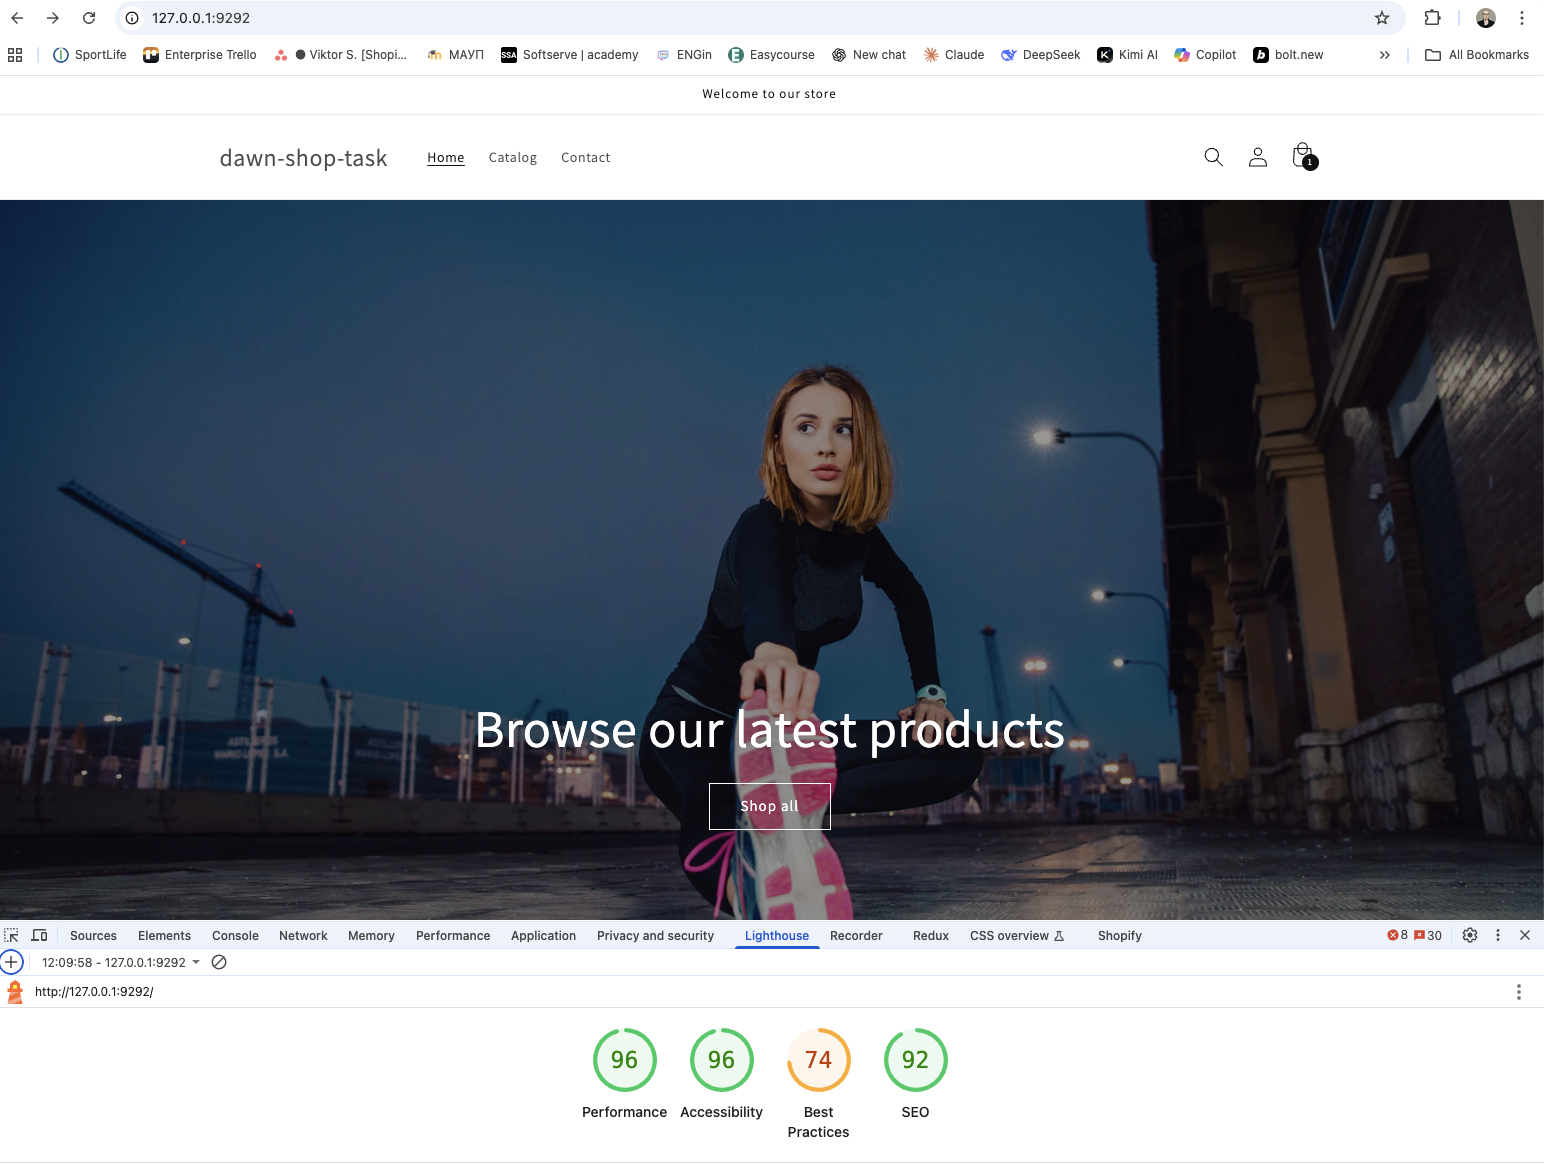
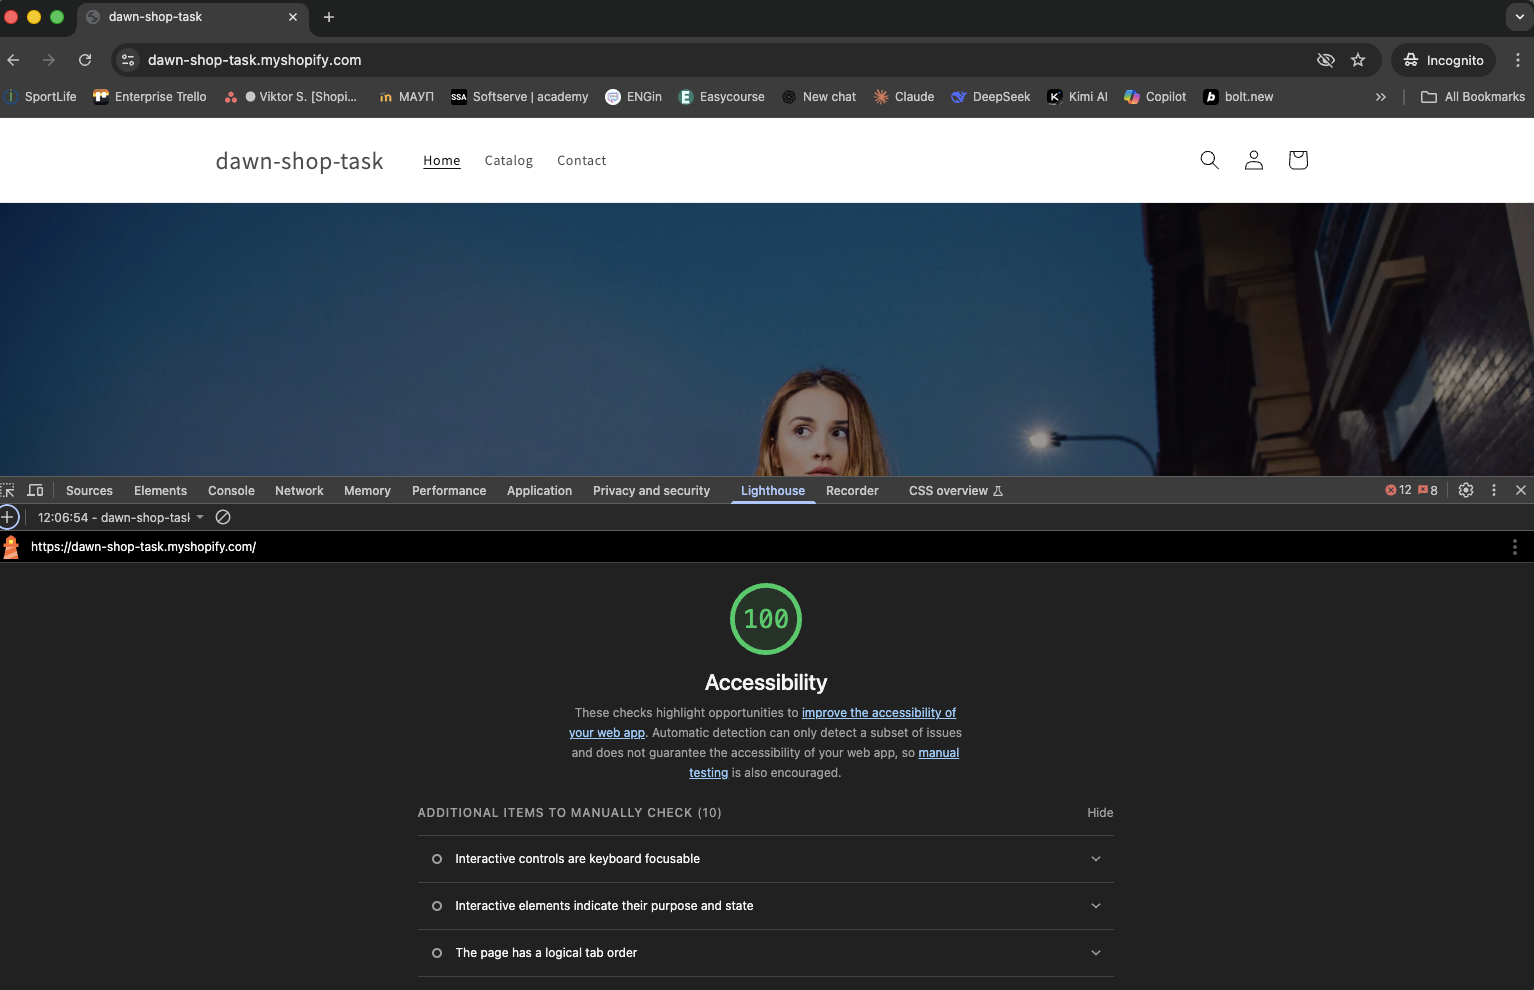
docs(md & png): add screenshots

diff --git a/README.md b/README.md
@@ -84,3 +84,7 @@
 - Проведено аудит доступності теми
 - Протестовано через W3C, Lighthouse, VoiceOver і TAB-навігацію
 - Виправлено знайдені проблеми
+
+![Accessibility](./screenshot-01.png)
+
+![Accessibility](./screenshot-02.png)
